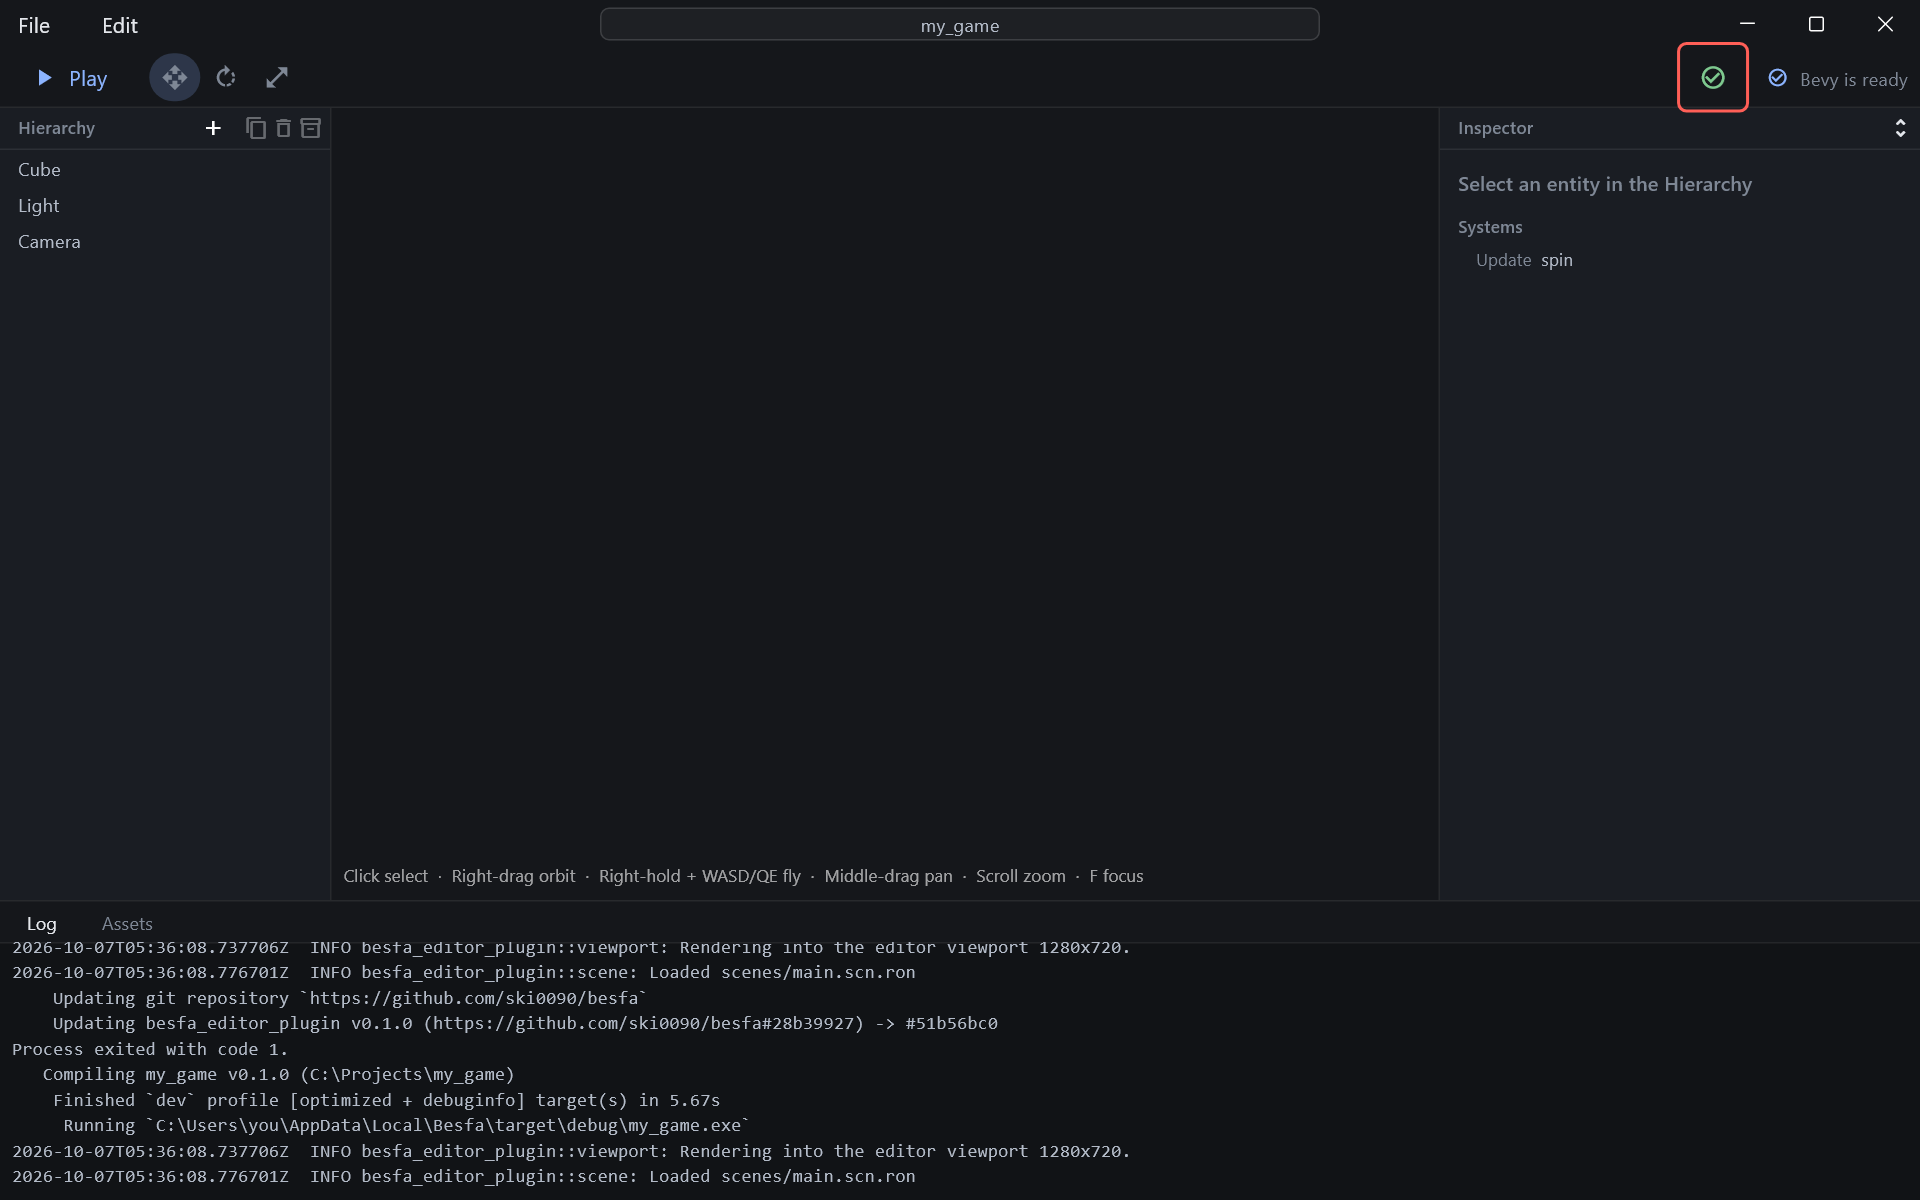
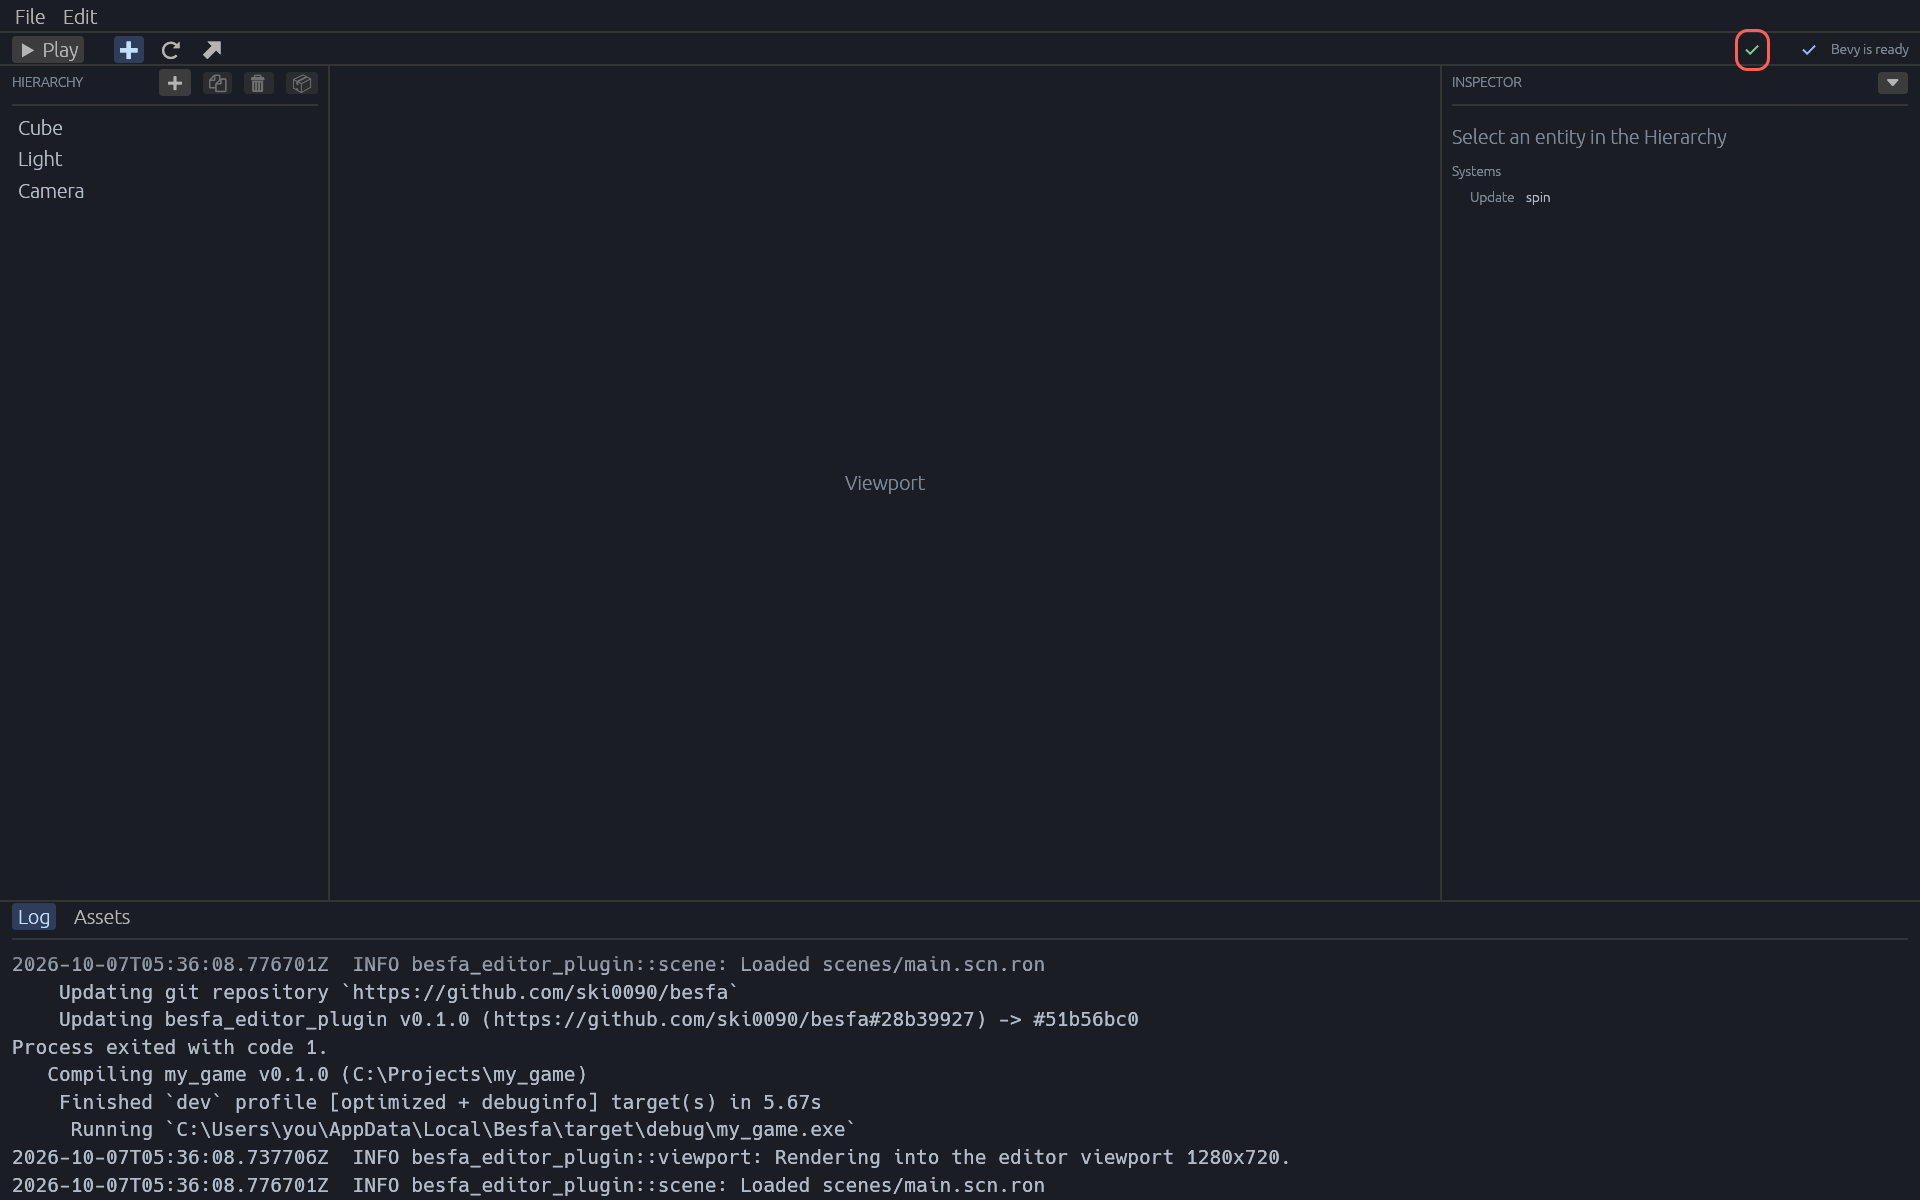
Retake the README screenshots in the egui editor
The README's screenshots still showed the Flutter editor, and the
Flutter test that rendered them went with it. An ignored test in
crates/besfa_editor now renders the editor headless with egui_kittest
from made-up project output, hovers the plugin icon for its tooltip,
rings it, and writes both images to docs/images; the READMEs give the
command to retake them after UI changes.

diff --git a/crates/besfa_editor/src/editor.rs b/crates/besfa_editor/src/editor.rs
@@ -1032,4 +1032,146 @@ mod tests {
         assert!(!poll(), "once");
         fs::remove_dir_all(dir).unwrap();
     }
+
+    /// The editor and what the README shows of it, for the screenshots.
+    struct Screen {
+        editor: Editor,
+        prebuild: Prebuild,
+        /// Ringed in the picture.
+        highlight: Option<egui::Rect>,
+    }
+
+    /// Renders the editor for the README's screenshots, with the fonts the
+    /// running editor uses, and writes them to docs/images. Not part of
+    /// `cargo test`; run it after changing the UI:
+    ///
+    /// ```text
+    /// cargo test -p besfa_editor readme_screenshots -- --ignored
+    /// ```
+    #[test]
+    #[ignore = "writes docs/images"]
+    fn readme_screenshots() {
+        const OLD: &str = "28b39927dda69b765ee1e7071794050033b4a307";
+        const LATEST: &str = "51b56bc0a1d9cd2bd1f1c5d6a2a8d5c9e0f1a2b3";
+        // What the template game prints and reports once it runs.
+        let game_output = [
+            r"   Compiling my_game v0.1.0 (C:\Projects\my_game)",
+            "    Finished `dev` profile [optimized + debuginfo] target(s) in 5.67s",
+            r"     Running `C:\Users\you\AppData\Local\Besfa\target\debug\my_game.exe`",
+            "2026-10-07T05:36:08.737706Z  INFO besfa_editor_plugin::viewport: Rendering into the editor viewport 1280x720.",
+            "2026-10-07T05:36:08.776701Z  INFO besfa_editor_plugin::scene: Loaded scenes/main.scn.ron",
+            r#"@besfa {"type":"systems","crate":"my_game","systems":[{"schedule":"Update","name":"my_game::spin"}]}"#,
+            r#"@besfa {"type":"entities","entities":[{"id":4294967295,"name":"Cube"},{"id":4294967294,"name":"Light"},{"id":4294967293,"name":"Camera"}]}"#,
+        ];
+        let read = |editor: &mut Editor, lines: &[&str]| {
+            for line in lines {
+                if editor.scene.handle(line).is_none() {
+                    editor.log(*line);
+                }
+            }
+        };
+
+        // Waiting for a prebuild, the editor starts no game of its own.
+        let waiting = Prebuild::with_phase(crate::process::PrebuildPhase::Running, "");
+        let project = Project::new(r"C:\Projects\my_game");
+        let mut editor = Editor::new(project, None, &waiting, &egui::Context::default());
+        editor.waiting_for_prebuild = false;
+        editor.plugin_revision = Some(OLD.into());
+        editor.latest_plugin_revision = Some(LATEST.into());
+        read(&mut editor, &game_output);
+
+        let screen = Screen {
+            editor,
+            prebuild: Prebuild::with_phase(crate::process::PrebuildPhase::Ready, "Bevy is ready"),
+            highlight: None,
+        };
+        let mut harness = egui_kittest::Harness::builder()
+            // The window, and the margin the harness puts around it.
+            .with_size([1280.0 + 2.0 * MARGIN, 800.0 + 2.0 * MARGIN])
+            .with_pixels_per_point(PIXELS_PER_POINT)
+            .wgpu()
+            .build_ui_state(
+                |ui, screen: &mut Screen| {
+                    screen.editor.ui(ui, &screen.prebuild);
+                    if let Some(rect) = screen.highlight {
+                        let layer =
+                            egui::LayerId::new(egui::Order::Debug, egui::Id::new("highlight"));
+                        ui.ctx().layer_painter(layer).rect_stroke(
+                            rect.expand(3.0),
+                            6.0,
+                            (2.0, Color32::from_rgb(0xFF, 0x5F, 0x57)),
+                            egui::StrokeKind::Outside,
+                        );
+                    }
+                },
+                screen,
+            );
+        crate::style(&harness.ctx);
+        harness.run();
+
+        // The project's plugin is not the prebuild's: the toolbar warns, and
+        // hovering explains what clicking does.
+        let rect = plugin_icon(&harness, "⚠");
+        harness.hover_at(rect.center());
+        harness.state_mut().highlight = Some(rect);
+        // Past the tooltip's delay.
+        harness.run_steps(8);
+        save(&mut harness, "plugin-update-available", Some(110.0));
+
+        // Clicking updates it, restarts the game and logs what cargo did.
+        harness.remove_cursor();
+        let editor = &mut harness.state_mut().editor;
+        read(
+            editor,
+            &[
+                "    Updating git repository `https://github.com/ski0090/besfa`",
+                &format!(
+                    "    Updating besfa_editor_plugin v0.1.0 (https://github.com/ski0090/besfa#{}) -> #{}",
+                    &OLD[..8],
+                    &LATEST[..8]
+                ),
+                "Process exited with code 1.",
+            ],
+        );
+        editor.scene.reset();
+        read(editor, &game_output);
+        editor.plugin_revision = Some(LATEST.into());
+        harness.run();
+        harness.state_mut().highlight = Some(plugin_icon(&harness, "✔"));
+        harness.run();
+        save(&mut harness, "plugin-updated", None);
+    }
+
+    /// Keeps text sharp.
+    const PIXELS_PER_POINT: f32 = 1.5;
+
+    /// The harness's outer margin around the UI, in points.
+    const MARGIN: f32 = 8.0;
+
+    /// Where the toolbar's plugin icon showing `icon` is, in points.
+    fn plugin_icon(harness: &egui_kittest::Harness<Screen>, icon: &str) -> egui::Rect {
+        use egui_kittest::kittest::Queryable;
+        // Accessibility bounds are in pixels.
+        let rect = harness
+            .get_by_role_and_label(egui::accesskit::Role::Button, icon)
+            .rect();
+        egui::Rect::from_min_max(
+            (rect.min.to_vec2() / PIXELS_PER_POINT).to_pos2(),
+            (rect.max.to_vec2() / PIXELS_PER_POINT).to_pos2(),
+        )
+    }
+
+    /// Writes the window, or its top `height` points, to docs/images.
+    fn save(harness: &mut egui_kittest::Harness<Screen>, name: &str, height: Option<f32>) {
+        let image = harness.render().expect("render the editor");
+        let margin = (MARGIN * PIXELS_PER_POINT) as u32;
+        let width = image.width() - 2 * margin;
+        let height = height.map_or(image.height() - 2 * margin, |points| {
+            (points * PIXELS_PER_POINT) as u32
+        });
+        let image = image::imageops::crop_imm(&image, margin, margin, width, height).to_image();
+        let path =
+            Path::new(env!("CARGO_MANIFEST_DIR")).join(format!("../../docs/images/{name}.png"));
+        image.save(path).expect("write the screenshot");
+    }
 }

diff --git a/crates/besfa_editor/src/process.rs b/crates/besfa_editor/src/process.rs
@@ -220,6 +220,19 @@ impl Prebuild {
     }
 }
 
+#[cfg(test)]
+impl Prebuild {
+    /// A prebuild in `phase` with no process behind it.
+    pub fn with_phase(phase: PrebuildPhase, message: &str) -> Self {
+        Self {
+            phase,
+            message: message.into(),
+            progress: None,
+            process: None,
+        }
+    }
+}
+
 /// The share of finished units in cargo's progress bar, as in
 /// `Building [==>   ] 210/498: bevy_render…`.
 fn build_progress(line: &str) -> Option<f32> {

diff --git a/README.md b/README.md
@@ -83,3 +83,9 @@ Plugin changes reach games only after they are pushed to `main` on GitHub. After
 ```bash
 cargo test
 ```
+
+The README screenshots are rendered by a test; after changing the UI, retake them (written to `docs/images`):
+
+```bash
+cargo test -p besfa_editor readme_screenshots -- --ignored
+```

diff --git a/README.ko.md b/README.ko.md
@@ -83,3 +83,9 @@ cargo update -p besfa_editor_plugin
 ```bash
 cargo test
 ```
+
+README의 스크린샷은 테스트로 그립니다. UI를 바꾼 뒤에는 다시 찍으세요(`docs/images`에 저장됩니다).
+
+```bash
+cargo test -p besfa_editor readme_screenshots -- --ignored
+```
